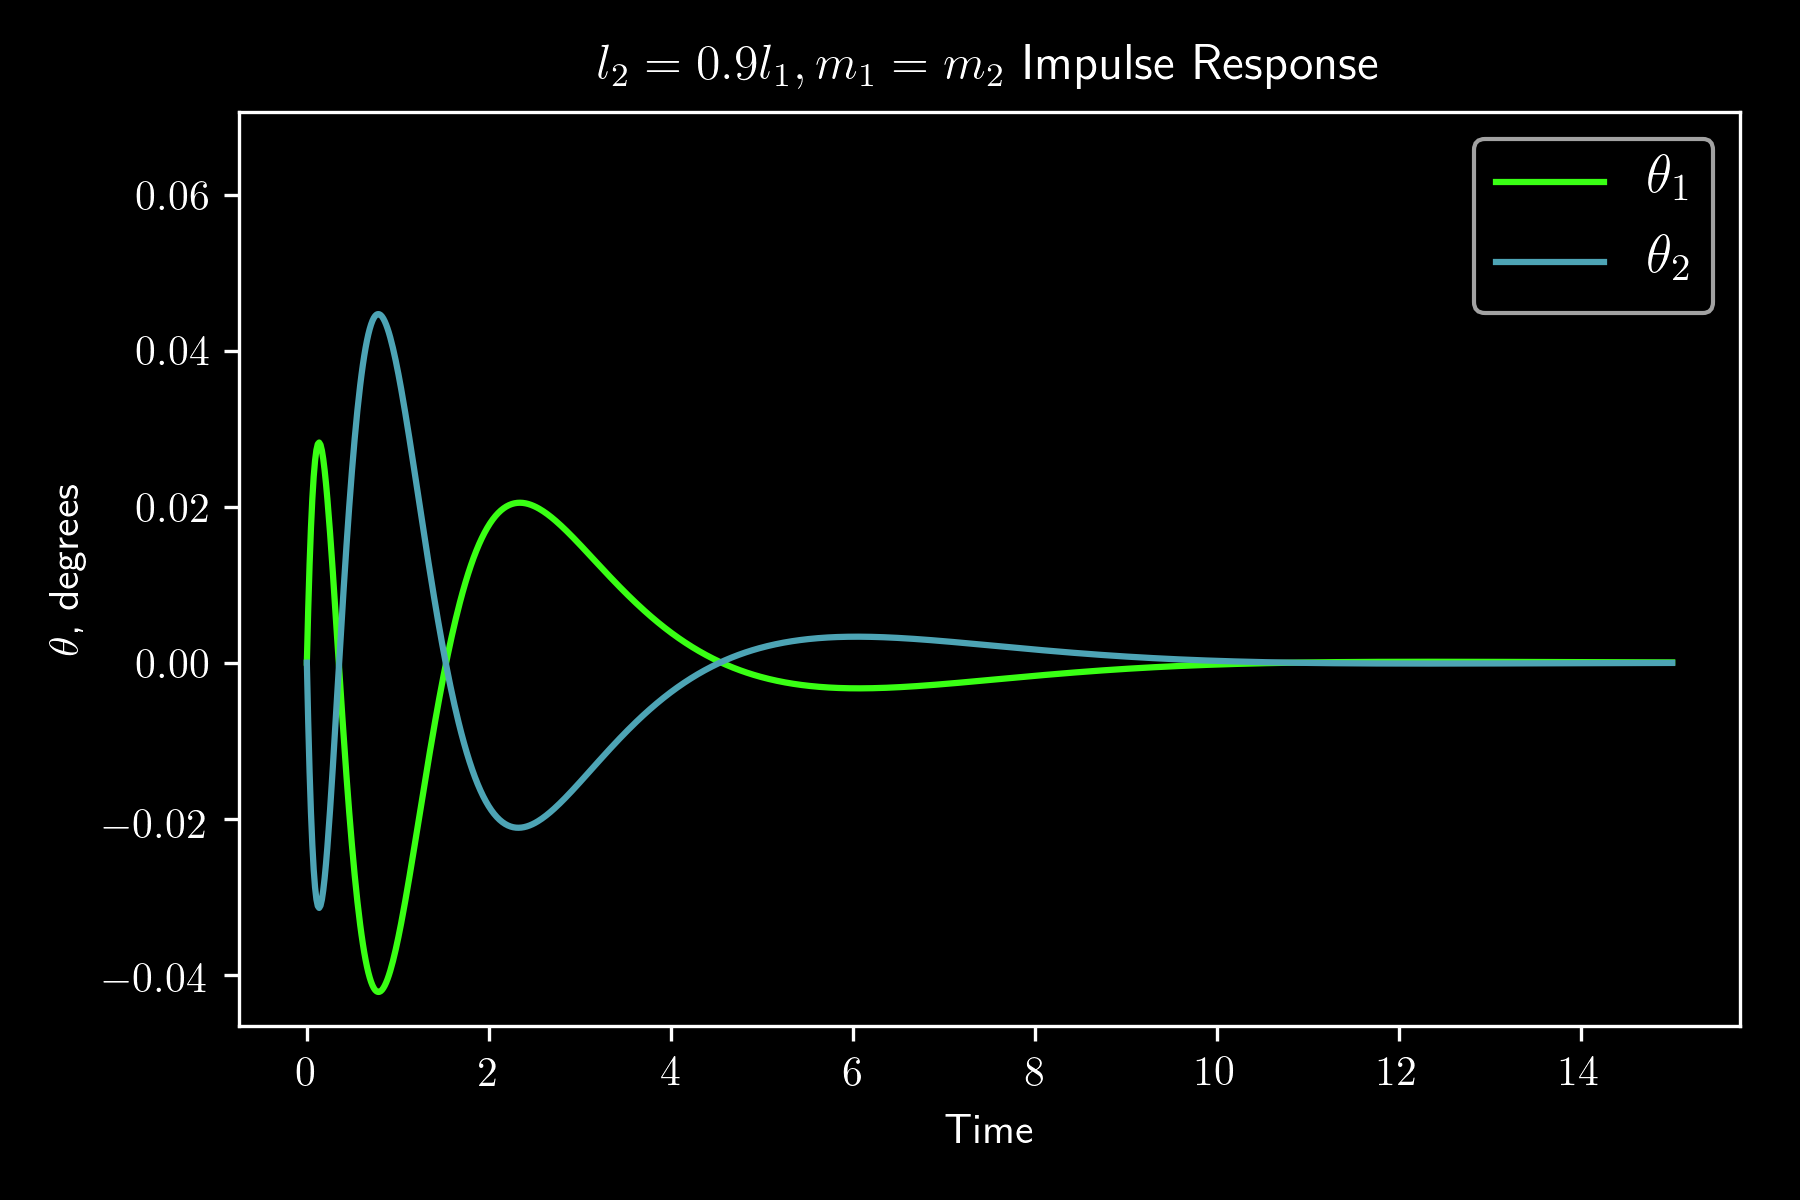
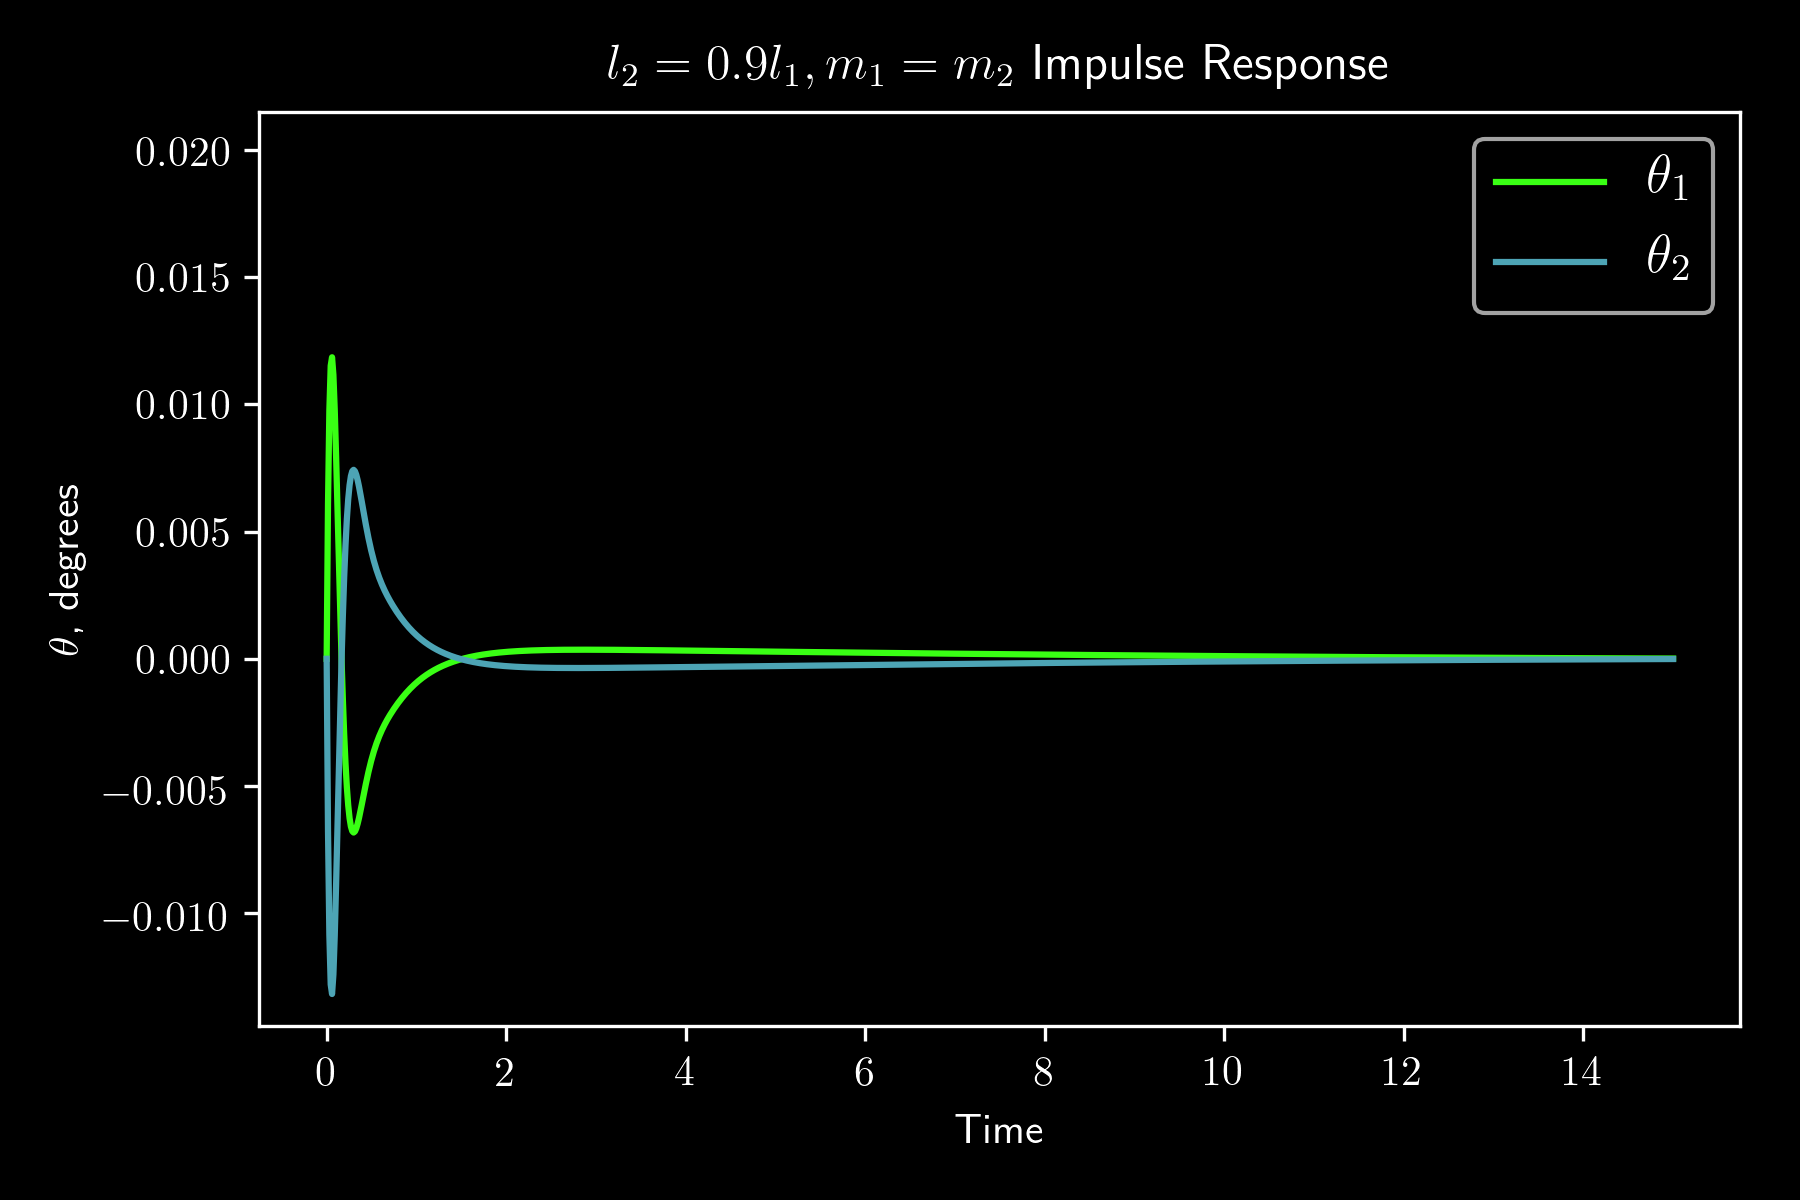
Weight change

diff --git a/Derivation.py b/Derivation.py
@@ -173,22 +173,22 @@ else:
 sys = control.ss(An,Bn,Cn,D)
 x0 = [x10, dx10, t10, dt10, t20, dt20]
 x0_stable = [0, 0, 0, 0, 0, 0]
-tspan = np.linspace(0,5,1000)
+#tspan = np.linspace(0,5,1000)
 
 
 # Control with LQR
 # Starting with just Q = R = I
-rho = 100
-Q = rho*np.diag([0.01, 0, 1, 0, 1, 0])
+rho = 10**6
+Q = np.diag([10**(-6), 0, rho, 0, rho, 0])
 # Matrix(np.diag([0.01, 0, 1, 0, 1, 0])).subs([(0.0, 0), (1.0, 1)])
-R = np.eye(m)
+R = 10**(-6)*np.eye(m)
 K, S, E = control.lqr(sys, Q, R)
 
 
 Ac = An-Bn*K
 
 x0 = [x10, dx10, t10, dt10, t20, dt20]
-tspan = np.linspace(0,15,1000)
+tspan = np.linspace(0,10,1000)
 
 sysc = control.ss(Ac,Bn,Cn,D) 
 
@@ -359,66 +359,7 @@ fig2.savefig(fileloc+'initial_response_' + filecondition+'.png', dpi=300)
 ##
 # Impulse response with x
 ##
-ximpulse = xoutimpulse[0]
-t1impulse = xoutimpulse[2]
-t2impulse = xoutimpulse[4]
-fig5, ax5 = plt.subplots()
-ax5.set_xlabel(r'Time')
-ax5.set_ylabel(r'$\theta$, degrees')
-ax5.set_title(r'')
-plt.rc('text', usetex=True)
-t1impulseline, = ax5.plot(timpulse,xoutimpulse[2], label=r'$\theta_1$', color=t1color)
-t2impulseline, = ax5.plot(timpulse,xoutimpulse[4], label=r'$\theta_2$', color=t2color)
-ax5.legend(loc='upper right')
-impulselims = [ax1.get_xlim()[0], ax1.get_xlim()[1], ax1.get_ylim()[0], ax1.get_ylim()[1]]
-# x stuff
-ax5R = ax5.twinx()
-ax5R.yaxis.tick_right()
-ax5R.yaxis.set_label_position('right')
-ax5R.set_ylabel('Position, m')
-ximpulseline, = ax5R.plot(timpulse, ximpulse, label = r'x', color=xcolor)
-ax5Rlims = [ax1.get_xlim()[0], ax1.get_xlim()[1], ax1.get_ylim()[0], ax1.get_ylim()[1]]
-# legend
-lines = [t1impulseline, t2impulseline, ximpulseline]
-labels = [l.get_label() for l in lines]
-ax5.legend(lines, labels, loc = 'upper right', prop={'size': 13})
-impulsetitle = condition + r' Impulse Response'
-ax5.set_title(impulsetitle)
-# align the zeros
-#align_yaxis(ax5, 0, ax5R, 0)
-align_yaxis_np(ax5, ax5R)
-ax5Rlims = [ax5R.get_xlim()[0], ax5R.get_xlim()[1], ax5R.get_ylim()[0], ax5R.get_ylim()[1]]
-ximpulseline.axes.axis(ax5Rlims)
-fig5.tight_layout()
-fig5.savefig(fileloc+'impulse_response_wx_' + filecondition + '.png', dpi=300)
-#def updateimpulse(num, timpulse, ximpulse, ximpulseline):
-#    ximpulseline.set_data(timpulse[:num], ximpulse[:num])
-#    ximpulseline.axes.axis(ax5Rlims)
-#    return ximpulseline,
-#
-#ani5 = animation.FuncAnimation(fig5, updateimpulse, len(tic), fargs=[timpulse, ximpulse, ximpulseline],
-#                              interval=5, blit=True)
-#
-#ani5.save(fileloc+'impulse_response_wx_' + filecondition + '.mp4', writer='ffmpeg', codec='h264', dpi=dpinum)
-
-##
-# Impulse response w/o x
-##
-t1impulse = xoutimpulse[2]
-t2impulse = xoutimpulse[4]
-fig4, ax4 = plt.subplots()
-ax4.set_xlabel(r'Time')
-ax4.set_ylabel(r'$\theta$, degrees')
-plt.rc('text', usetex=True)
-t1impulseline, = ax4.plot(tcic, t1impulse, label=r'$\theta_1$', color=t1color)
-t2impulseline, = ax4.plot(tcic, t2impulse, label=r'$\theta_2$', color=t2color)
-ax4.legend(loc='upper right', prop={'size': 13})
-impulselims = [ax1.get_xlim()[0], ax1.get_xlim()[1], ax5.get_ylim()[0], ax5.get_ylim()[1]]
-t1impulseline.axes.axis(impulselims)
-impulsetitle = condition + r' Impulse Response'
-ax4.set_title(impulsetitle)
-fig4.tight_layout()
-fig4.savefig(fileloc+'impulse_response_' + filecondition + '.png', dpi=300)
+#ximpulse = xoutimpulse', dpi=300)
 #def updateic(num, timpulse, t1impulse, t2impulse, t1impulseline, t2impulseline):
 #    t1impulseline.set_data(timpulse[:num], t1impulse[:num])
 #    t2impulseline.set_data(timpulse[:num], t2impulse[:num])
